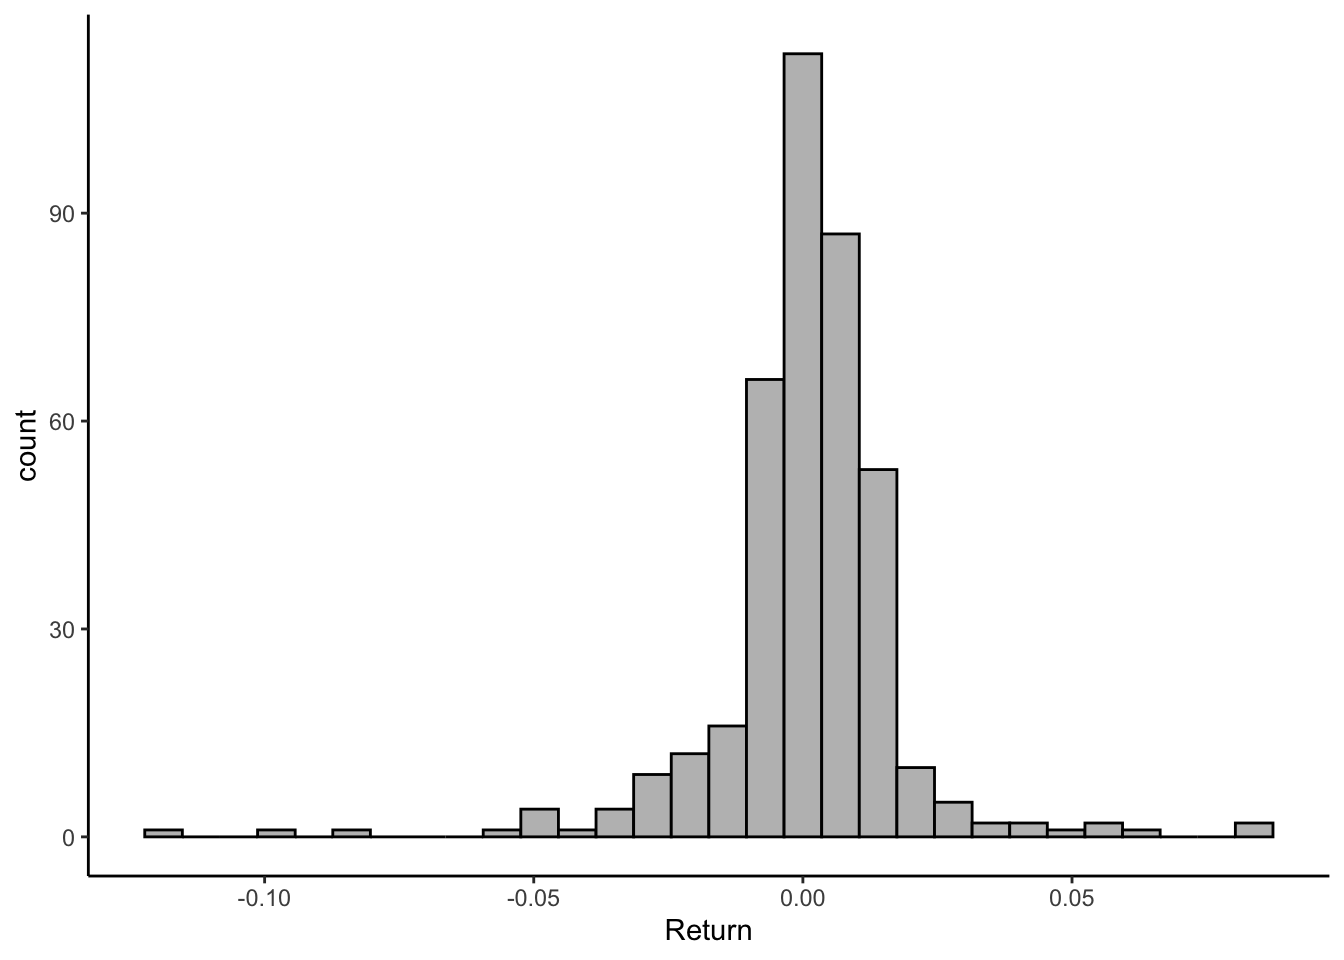
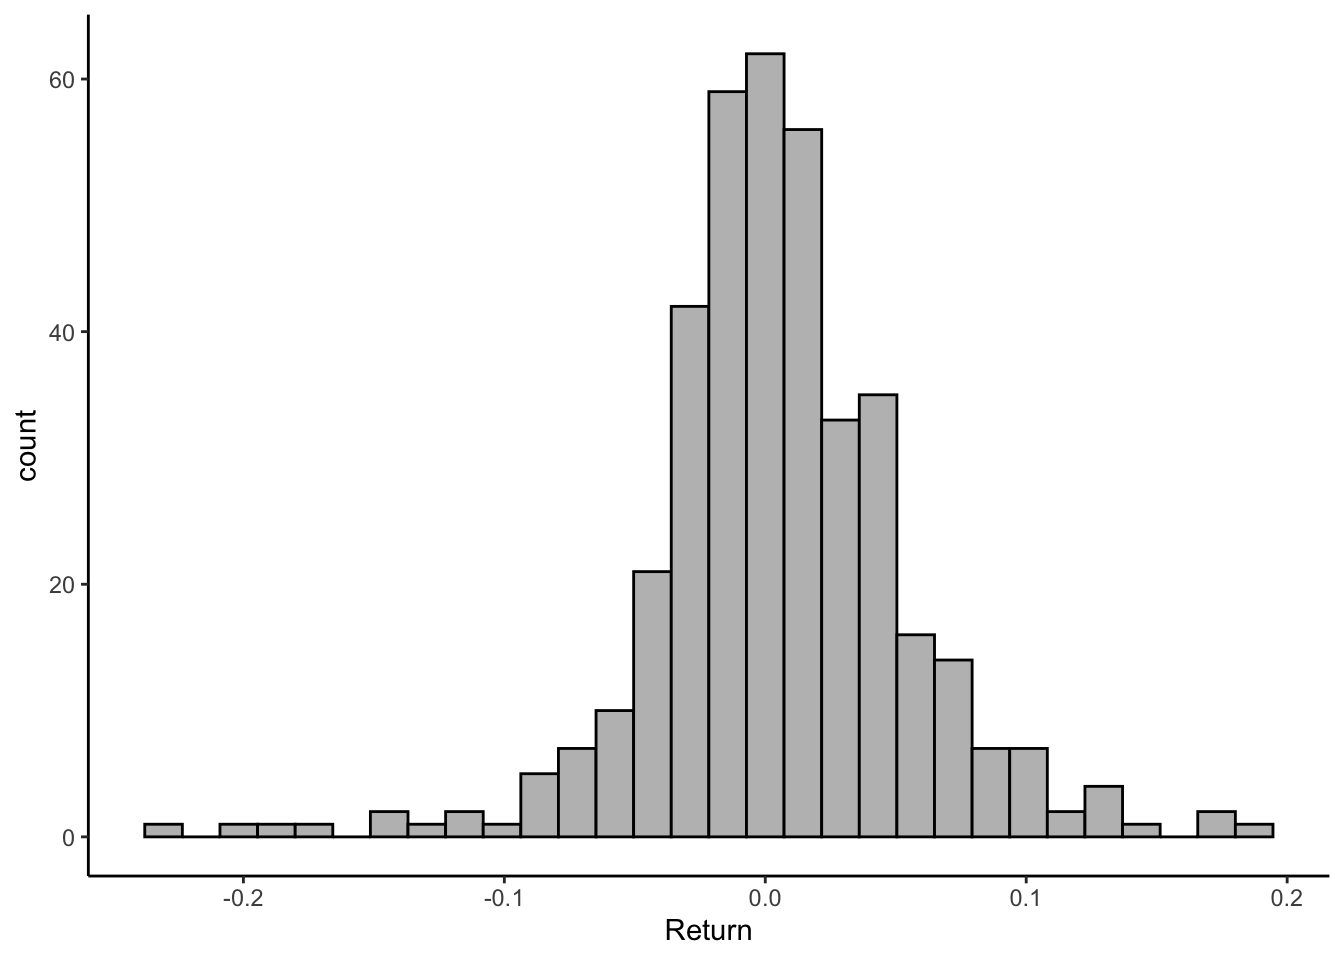
changes

diff --git a/docs/Tools.html b/docs/Tools.html
@@ -386,7 +386,7 @@ window.Quarto = {
 <div class="cell">
 <div class="sourceCode cell-code" id="cb5"><pre class="sourceCode r code-with-copy"><code class="sourceCode r"><span id="cb5-1"><a href="#cb5-1" aria-hidden="true" tabindex="-1"></a><span class="fu">sample</span>(<span class="fu">c</span>(<span class="st">"H"</span>,<span class="st">"T"</span>), <span class="dv">5</span>, <span class="at">replace=</span> <span class="cn">TRUE</span>, <span class="at">prob=</span><span class="fu">c</span>(<span class="fl">0.6</span>,<span class="fl">0.4</span>))</span></code><button title="Copy to Clipboard" class="code-copy-button"><i class="bi"></i></button></pre></div>
 <div class="cell-output cell-output-stdout">
-<pre><code>[1] "H" "H" "T" "H" "T"</code></pre>
+<pre><code>[1] "H" "T" "T" "T" "H"</code></pre>
 </div>
 </div>
 </section>
@@ -401,11 +401,11 @@ window.Quarto = {
 <span id="cb7-5"><a href="#cb7-5" aria-hidden="true" tabindex="-1"></a>           <span class="at">Demand=</span><span class="fu">rbinom</span>(<span class="dv">5</span>,<span class="dv">100</span>,<span class="fl">0.7</span>)))</span></code><button title="Copy to Clipboard" class="code-copy-button"><i class="bi"></i></button></pre></div>
 <div class="cell-output cell-output-stdout">
 <pre><code>              Books Price Demand
-1      Frankenstein  9.50     70
-2           Dracula  5.78     71
-3         Moby Dick  6.34     72
-4 War Of The Worlds  5.67     81
-5           Beowulf  2.45     70</code></pre>
+1      Frankenstein  9.50     68
+2           Dracula  5.78     66
+3         Moby Dick  6.34     61
+4 War Of The Worlds  5.67     70
+5           Beowulf  2.45     72</code></pre>
 </div>
 </div>
 <p>The demand for the book is generated using the <code>rbinom()</code> function. The first input of the <code>rbinom()</code> function specifies how many random numbers are needed (<span class="math inline">\(5\)</span>), the second one specifies the number of trials in the experiment (<span class="math inline">\(100\)</span>), and the last one specifies the probability of success (<span class="math inline">\(0.7\)</span>). The bookstore can now assess the Monster Series’s revenues with these demands.</p>
@@ -422,11 +422,11 @@ window.Quarto = {
 <span id="cb9-5"><a href="#cb9-5" aria-hidden="true" tabindex="-1"></a>  <span class="fu">print</span>(Revenue)</span>
 <span id="cb9-6"><a href="#cb9-6" aria-hidden="true" tabindex="-1"></a>}</span></code><button title="Copy to Clipboard" class="code-copy-button"><i class="bi"></i></button></pre></div>
 <div class="cell-output cell-output-stdout">
-<pre><code>[1] 722
-[1] 722.00 398.82
-[1] 722.00 398.82 456.48
-[1] 722.00 398.82 456.48 402.57
-[1] 722.00 398.82 456.48 402.57 176.40</code></pre>
+<pre><code>[1] 627
+[1] 627.00 416.16
+[1] 627.00 416.16 469.16
+[1] 627.00 416.16 469.16 419.58
+[1] 627.00 416.16 469.16 419.58 173.95</code></pre>
 </div>
 </div>
 <p>The code above starts by creating an empty vector to store the revenue generated by each book. A for loop is then used to simulate the revenue for each book. The process starts by taking the first price in the <em>MS$Price</em> vector and multiplying it with a single random number drawn from the binomial distribution with <span class="math inline">\(100\)</span> trials and probability <span class="math inline">\(0.7\)</span> (our simulated demand). Note how the code combines the <em>Revenue</em> vector with the revenue generated by the simulation in the code <code>c(Revenue, i*rbinom(1,100,0.7)</code>. This process is repeated for every number in the <em>MS$Price</em> vector, leading to a final vector with each book’s revenues.</p>
@@ -435,7 +435,7 @@ window.Quarto = {
 <div class="sourceCode cell-code" id="cb11"><pre class="sourceCode r code-with-copy"><code class="sourceCode r"><span id="cb11-1"><a href="#cb11-1" aria-hidden="true" tabindex="-1"></a>Revenue<span class="ot">&lt;-</span>MS<span class="sc">$</span>Demand<span class="sc">*</span>MS<span class="sc">$</span>Price</span>
 <span id="cb11-2"><a href="#cb11-2" aria-hidden="true" tabindex="-1"></a>Revenue</span></code><button title="Copy to Clipboard" class="code-copy-button"><i class="bi"></i></button></pre></div>
 <div class="cell-output cell-output-stdout">
-<pre><code>[1] 665.00 410.38 456.48 459.27 171.50</code></pre>
+<pre><code>[1] 646.00 381.48 386.74 396.90 176.40</code></pre>
 </div>
 </div>
 </section>
@@ -456,7 +456,7 @@ window.Quarto = {
 <span id="cb13-10"><a href="#cb13-10" aria-hidden="true" tabindex="-1"></a></span>
 <span id="cb13-11"><a href="#cb13-11" aria-hidden="true" tabindex="-1"></a><span class="fu">print</span>(demand)</span></code><button title="Copy to Clipboard" class="code-copy-button"><i class="bi"></i></button></pre></div>
 <div class="cell-output cell-output-stdout">
-<pre><code>[1] 89 96 73 68 75</code></pre>
+<pre><code>[1] 85 87 73 69 70</code></pre>
 </div>
 </div>
 <p>In the code above, the inner conditional checks whether the titles are either Frankenstein or Dracula. If so, the random binomial number is drawn with the probability <span class="math inline">\(0.9\)</span>. If not, it is drawn with probability <span class="math inline">\(0.7\)</span>. The for loop, goes through all the books in the series and adds a simulated demand. Below is our data frame with the new simulated values.</p>
@@ -468,11 +468,11 @@ window.Quarto = {
 <span id="cb15-5"><a href="#cb15-5" aria-hidden="true" tabindex="-1"></a>           <span class="at">Demand=</span>demand))</span></code><button title="Copy to Clipboard" class="code-copy-button"><i class="bi"></i></button></pre></div>
 <div class="cell-output cell-output-stdout">
 <pre><code>              Books Price Demand
-1      Frankenstein  9.50     89
-2           Dracula  5.78     96
+1      Frankenstein  9.50     85
+2           Dracula  5.78     87
 3         Moby Dick  6.34     73
-4 War Of The Worlds  5.67     68
-5           Beowulf  2.45     75</code></pre>
+4 War Of The Worlds  5.67     69
+5           Beowulf  2.45     70</code></pre>
 </div>
 </div>
 <p>We can simplify this calculation by using a function to modify the vector of books (i.e.&nbsp;vectorization). In particular, the <code>ifelse()</code> function allows us to take the <em>Books</em> variable and transform it to a vector of demands. The first argument of the <code>ifelse()</code> function is the logical condition (i.e.&nbsp;Books==“Frankenstein”| Books==“Dracula”), the second argument is the action to be taken when the condition holds true (i.e.&nbsp;<code>rbinom(length(MS$Books),100,0.9)</code>) and the last argument is the action to be taken when the condition does not hold (i.e.&nbsp;<code>rbinom(length(MS$Books),100,0.7)</code>). Below is simpler code to generate the demand of books:</p>
@@ -482,7 +482,7 @@ window.Quarto = {
 <span id="cb17-3"><a href="#cb17-3" aria-hidden="true" tabindex="-1"></a>               <span class="fu">rbinom</span>(<span class="fu">length</span>(MS<span class="sc">$</span>Books),<span class="dv">100</span>,<span class="fl">0.7</span>))</span>
 <span id="cb17-4"><a href="#cb17-4" aria-hidden="true" tabindex="-1"></a>demand</span></code><button title="Copy to Clipboard" class="code-copy-button"><i class="bi"></i></button></pre></div>
 <div class="cell-output cell-output-stdout">
-<pre><code>[1] 87 89 68 63 76</code></pre>
+<pre><code>[1] 90 89 69 73 68</code></pre>
 </div>
 </div>
 </section>
@@ -671,7 +671,7 @@ window.Quarto = {
 </section>
 <section id="chi-square-test" class="level2" data-number="2.7">
 <h2 data-number="2.7" class="anchored" data-anchor-id="chi-square-test"><span class="header-section-number">2.7</span> Chi Square Test</h2>
-<p>Although we have visual confirmation that ferry rides during weekdays are uniformily distributed, we would like to perform a statistical test to prove that this is in fact the case. The <strong>Chi-Square Test</strong> is generally used to compare observed frequencies with expected frequencies across categorical data. Using this comparison, we can determine if the observed data does in fact follow the hypothesis distribution. Below is code to perform the test:</p>
+<p>Although we have visual confirmation that ferry rides during weekdays are uniformly distributed, we would like to perform a statistical test to prove that this is in fact the case. The <strong>Chi-Square Test</strong> is generally used to compare observed frequencies with expected frequencies across categorical data. Using this comparison, we can determine if the observed data does in fact follow the hypothesis distribution. Below is code to perform the test:</p>
 <div class="cell">
 <div class="sourceCode cell-code" id="cb23"><pre class="sourceCode r code-with-copy"><code class="sourceCode r"><span id="cb23-1"><a href="#cb23-1" aria-hidden="true" tabindex="-1"></a><span class="co"># Observed frequencies</span></span>
 <span id="cb23-2"><a href="#cb23-2" aria-hidden="true" tabindex="-1"></a>observed <span class="ot">&lt;-</span> <span class="fu">c</span>(<span class="dv">5</span>, <span class="dv">5</span>, <span class="dv">5</span>, <span class="dv">5</span>, <span class="dv">5</span>)</span>
@@ -696,7 +696,8 @@ data:  observed
 X-squared = 0, df = 4, p-value = 1</code></pre>
 </div>
 </div>
-<p><strong>Chi-Square Statistic (X-squared)</strong> measures the divergence between observed and expected frequencies. Since, the observed distribution is exactly the same with the expected frequency the divergence is 0. The p-value indicates the probability of observing a Chi-Square statistic as extreme as, or more extreme than, the one computed, assuming the null hypothesis (that the distribution is uniform) is true. A small p-value (typically &lt; 0.05) indicates that the observed distribution is significantly different from a uniform distribution. Since the p-value is 1 we can’t reject the null hypothesis, and vote in favor of ferry rides being uniformily distributed. Note that the Chi-Square test can be used for any discrete distribution.</p>
+<p><strong>Chi-Square Statistic (X-squared)</strong> measures the divergence between observed and expected frequencies. Since the observed distribution is the same as the expected frequency, the divergence is 0. The p-value indicates the probability of observing a Chi-Square statistic as extreme as, or more extreme than, the one computed, assuming the null hypothesis (that the distribution is uniform) is true. A small p-value (typically &lt; 0.05) indicates that the observed distribution is significantly different from a uniform distribution. Since the the reported p-value is 1, we can’t reject the null hypothesis and we vote in favor of ferry rides being uniformly distributed.</p>
+<p>Note that the Chi-Square test can be used for any discrete distribution or alternately as an approximation when the distributions are continuous. For testing normality (continuous distribution), other tests like the Shapiro-Wilk (<code>shapiro.test()</code> in R) or Kolmogorov-Smirnov (<code>ks.test()</code>) are more commonly used and better suited than the Chi-Square test.</p>
 </section>
 <section id="readings" class="level2" data-number="2.8">
 <h2 data-number="2.8" class="anchored" data-anchor-id="readings"><span class="header-section-number">2.8</span> Readings</h2>
@@ -808,7 +809,7 @@ Suggested Answer
 <div class="cell">
 <div class="sourceCode cell-code" id="cb34"><pre class="sourceCode r code-with-copy"><code class="sourceCode r"><span id="cb34-1"><a href="#cb34-1" aria-hidden="true" tabindex="-1"></a><span class="fu">library</span>(tidyverse)</span>
 <span id="cb34-2"><a href="#cb34-2" aria-hidden="true" tabindex="-1"></a>data<span class="ot">&lt;-</span><span class="fu">read_csv</span>(<span class="st">"https://jagelves.github.io/Data/returns.csv"</span>)</span>
-<span id="cb34-3"><a href="#cb34-3" aria-hidden="true" tabindex="-1"></a>data <span class="sc">%&gt;%</span> <span class="fu">filter</span>(Stock<span class="sc">==</span><span class="st">"SPY"</span>) <span class="sc">%&gt;%</span> <span class="fu">ggplot</span>() <span class="sc">+</span></span>
+<span id="cb34-3"><a href="#cb34-3" aria-hidden="true" tabindex="-1"></a>data <span class="sc">%&gt;%</span> <span class="fu">filter</span>(Stock<span class="sc">==</span><span class="st">"TSLA"</span>) <span class="sc">%&gt;%</span> <span class="fu">ggplot</span>() <span class="sc">+</span></span>
 <span id="cb34-4"><a href="#cb34-4" aria-hidden="true" tabindex="-1"></a>  <span class="fu">geom_histogram</span>(<span class="fu">aes</span>(<span class="at">x=</span>Return), <span class="at">bg=</span><span class="st">"grey"</span>,<span class="at">col=</span><span class="st">"black"</span>) <span class="sc">+</span></span>
 <span id="cb34-5"><a href="#cb34-5" aria-hidden="true" tabindex="-1"></a>  <span class="fu">theme_classic</span>()</span></code><button title="Copy to Clipboard" class="code-copy-button"><i class="bi"></i></button></pre></div>
 <div class="cell-output-display">
@@ -839,7 +840,7 @@ Suggested Answer
 </div>
 </div>
 </div>
-<p>As you can see the simulated demand follows the pattern of the sample returns (i.e.&nbsp;the normal distribution). To retrieve the mean and standard deviation of each investmenr we can use the code below:</p>
+<p>As you can see the simulated demand follows the pattern of the sample returns (i.e.&nbsp;the normal distribution). To retrieve the mean and standard deviation of each investment we can use the code below:</p>
 <div class="cell">
 <div class="sourceCode cell-code" id="cb36"><pre class="sourceCode r code-with-copy"><code class="sourceCode r"><span id="cb36-1"><a href="#cb36-1" aria-hidden="true" tabindex="-1"></a>data <span class="sc">%&gt;%</span> <span class="fu">group_by</span>(Stock) <span class="sc">%&gt;%</span> </span>
 <span id="cb36-2"><a href="#cb36-2" aria-hidden="true" tabindex="-1"></a>  <span class="fu">summarise</span>(<span class="at">Average=</span><span class="fu">mean</span>(Return),</span>
@@ -898,9 +899,32 @@ Suggested Answer
 </div>
 </div>
 </div>
-<p>The simulated data seems to resemble the call center data. Now we can generate four simulated number of calls in a day by using the <code>rpois()</code> function and the estimated mean number of calls in a day.</p>
+<p>The simulated data seems to resemble the call center data. We can perform a Chi-Squared Test:</p>
 <div class="cell">
-<div class="sourceCode cell-code" id="cb42"><pre class="sourceCode r code-with-copy"><code class="sourceCode r"><span id="cb42-1"><a href="#cb42-1" aria-hidden="true" tabindex="-1"></a><span class="fu">rpois</span>(<span class="dv">4</span>,<span class="fu">mean</span>(data<span class="sc">$</span>Calls,<span class="at">na.rm=</span><span class="cn">TRUE</span>))</span></code><button title="Copy to Clipboard" class="code-copy-button"><i class="bi"></i></button></pre></div>
+<div class="sourceCode cell-code" id="cb42"><pre class="sourceCode r code-with-copy"><code class="sourceCode r"><span id="cb42-1"><a href="#cb42-1" aria-hidden="true" tabindex="-1"></a>observed <span class="ot">&lt;-</span> <span class="fu">table</span>(data<span class="sc">$</span>Calls)</span>
+<span id="cb42-2"><a href="#cb42-2" aria-hidden="true" tabindex="-1"></a></span>
+<span id="cb42-3"><a href="#cb42-3" aria-hidden="true" tabindex="-1"></a><span class="co"># Calculate the mean (lambda) for the Poisson distribution</span></span>
+<span id="cb42-4"><a href="#cb42-4" aria-hidden="true" tabindex="-1"></a>lambda <span class="ot">&lt;-</span> <span class="fu">mean</span>(data<span class="sc">$</span>Calls, <span class="at">na.rm=</span><span class="cn">TRUE</span>)</span>
+<span id="cb42-5"><a href="#cb42-5" aria-hidden="true" tabindex="-1"></a></span>
+<span id="cb42-6"><a href="#cb42-6" aria-hidden="true" tabindex="-1"></a><span class="co"># Calculate the expected frequencies for each observed count</span></span>
+<span id="cb42-7"><a href="#cb42-7" aria-hidden="true" tabindex="-1"></a>expected <span class="ot">&lt;-</span> <span class="fu">dpois</span>(<span class="fu">as.numeric</span>(<span class="fu">names</span>(observed)), lambda) <span class="sc">*</span> <span class="fu">sum</span>(observed)</span>
+<span id="cb42-8"><a href="#cb42-8" aria-hidden="true" tabindex="-1"></a></span>
+<span id="cb42-9"><a href="#cb42-9" aria-hidden="true" tabindex="-1"></a><span class="co"># Perform the Chi-Square test</span></span>
+<span id="cb42-10"><a href="#cb42-10" aria-hidden="true" tabindex="-1"></a>chi_square_test <span class="ot">&lt;-</span> <span class="fu">chisq.test</span>(<span class="at">x =</span> observed, <span class="at">p =</span> expected <span class="sc">/</span> <span class="fu">sum</span>(expected))</span>
+<span id="cb42-11"><a href="#cb42-11" aria-hidden="true" tabindex="-1"></a></span>
+<span id="cb42-12"><a href="#cb42-12" aria-hidden="true" tabindex="-1"></a><span class="co"># Display the test results</span></span>
+<span id="cb42-13"><a href="#cb42-13" aria-hidden="true" tabindex="-1"></a><span class="fu">print</span>(chi_square_test)</span></code><button title="Copy to Clipboard" class="code-copy-button"><i class="bi"></i></button></pre></div>
+<div class="cell-output cell-output-stdout">
+<pre><code>
+    Chi-squared test for given probabilities
+
+data:  observed
+X-squared = 35.136, df = 34, p-value = 0.4141</code></pre>
+</div>
+</div>
+<p>Given the large p-value, we can’t reject the null and vote in favor a Poisson distribution. Now we can generate four simulated number of calls in a day by using the <code>rpois()</code> function and the estimated mean number of calls in a day.</p>
+<div class="cell">
+<div class="sourceCode cell-code" id="cb44"><pre class="sourceCode r code-with-copy"><code class="sourceCode r"><span id="cb44-1"><a href="#cb44-1" aria-hidden="true" tabindex="-1"></a><span class="fu">rpois</span>(<span class="dv">4</span>,<span class="fu">mean</span>(data<span class="sc">$</span>Calls,<span class="at">na.rm=</span><span class="cn">TRUE</span>))</span></code><button title="Copy to Clipboard" class="code-copy-button"><i class="bi"></i></button></pre></div>
 <div class="cell-output cell-output-stdout">
 <pre><code>[1] 35 31 30 36</code></pre>
 </div>
